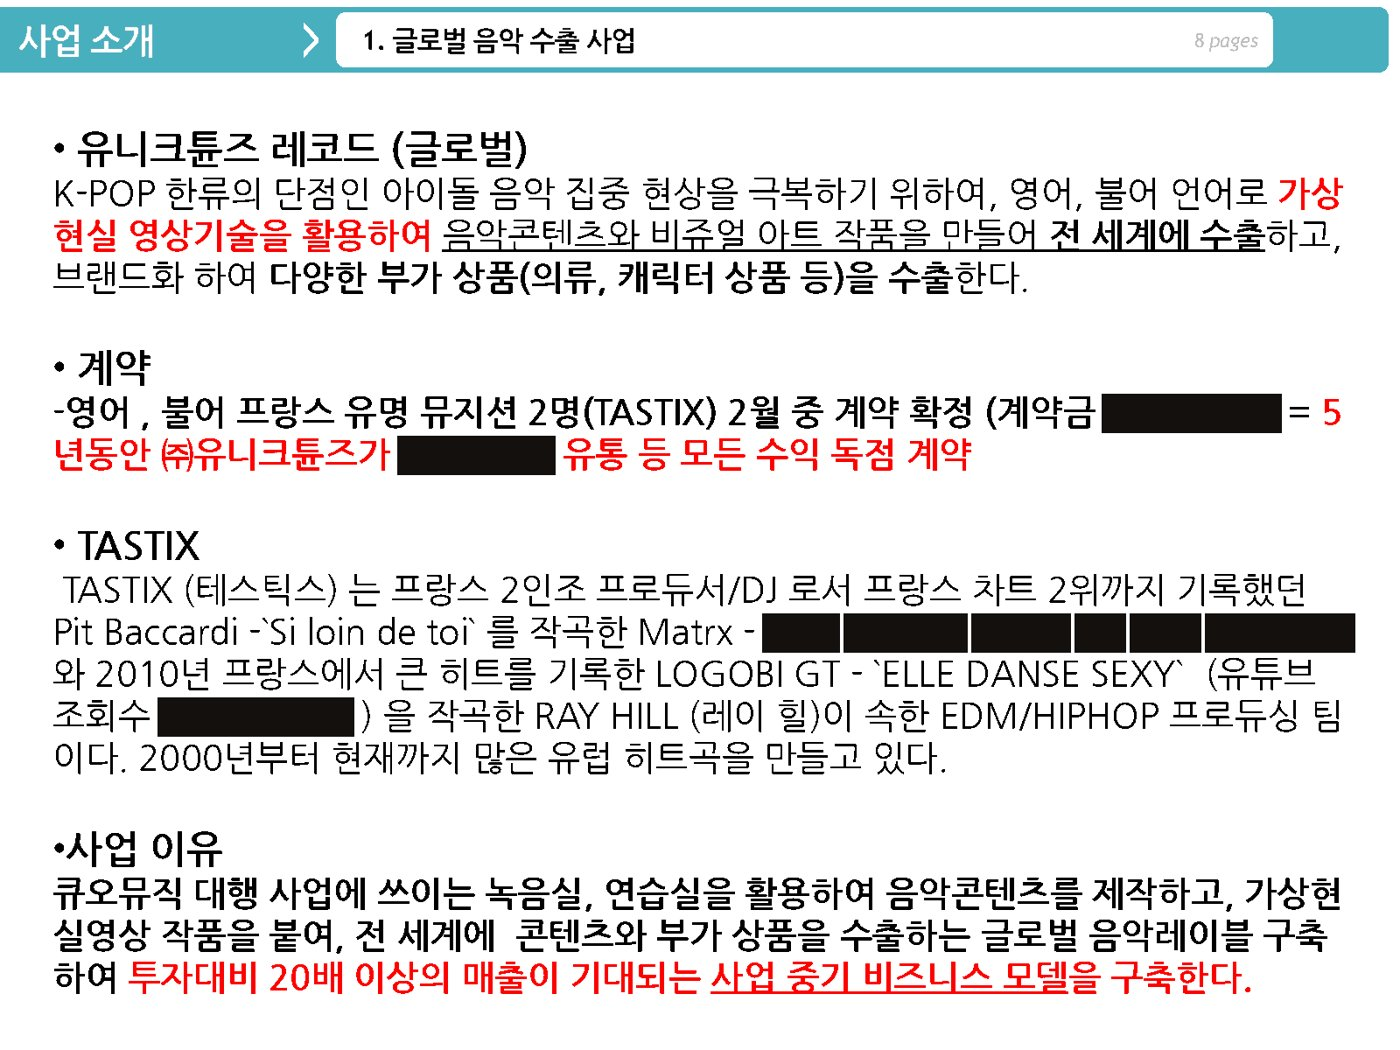
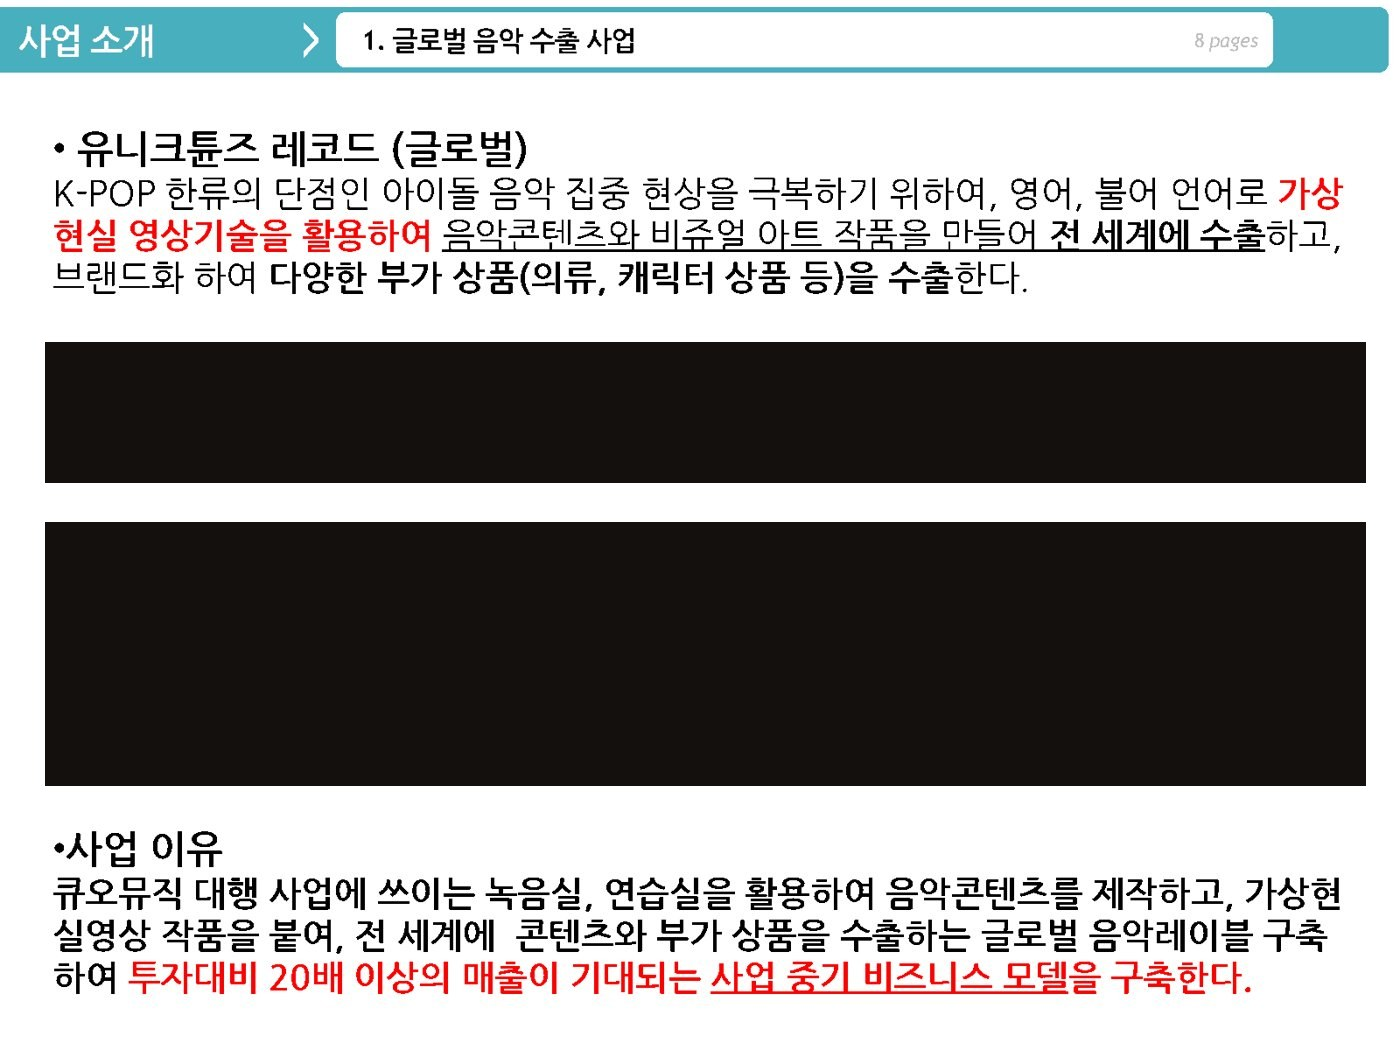
5관 KIMOXAVI + UK TOUR, 레이힐 한마디, 2편 TASTIX 내용 가림
Claude-Session: https://claude.ai/code/session_01LLcf55Dz63rV5HkvQ73PBu

diff --git a/index.html b/index.html
@@ -242,7 +242,7 @@ const CONFIG = {
       { id:"w05", year:"2017", title:"DAZE · Friday", desc:"데이즈 (DAZE) - Friday (Director's Cut) MV\n\n- Music Video Credit\nDirector : Maisie Duff at SPRY Productions\nD.O.P : Michael East at SPRY Productions\nLighting : Sophia Tang\nHair and makeup : Harleigh Slaughter\nActress : Amy Cotter\nVideo effect : Michael East at SPRY Productions, Brian East\nAdditional video edit: 이준의 @ 왓츠더웨더, 김민희\nSpecial Thanks in UK : Davide Cirillo at Toni & Guy Hammersmith, Sophia Tang, Kimoxavi, Freya bigg @ www.UnitedKpop.com", say:"", note:"따로 예산이 없어서 뮤비를 안찍으려다가, 영국의 신진 감독님이 제안을 주셔서 런던에 가서 저예산뮤직비디오를 찍었어요", youtube:"", video:"media/w05.mp4", image:"media/w05.jpg" },
       { id:"m2", wall:"bottom", type:"story", year:"2016", title:"음비맨의 회고록 2편", desc:"첫 자금 유치", say:"음비맨의 회고록 2탄이에요. 2016년, 유니크튠즈가 법인을 설립하고 첫 자금 유치를 했던 이야기예요", note:"음비맨의 회고록 2탄이에요. 2016년, 유니크튠즈가 법인을 설립하고 첫 자금 유치를 했던 이야기예요",
         image:"media/m2-01.jpg", images:["media/m2-01.jpg", "media/m2-02.jpg", "media/m2-03.jpg", "media/m2-04.jpg", "media/m2-05.jpg", "media/m2-06.jpg", "media/m2-07.jpg", "media/m2-08.jpg", "media/m2-09.jpg"],
-        text:"2016년 2월, 법인 자금을 받기 위해 사업소개서를 썼다. 제목은 \"가상현실 영상기술을 활용한 글로벌 음악수출 기업\"이었다.\n\n[이미지1]\n\n그때 나는 가상현실이 음악을 듣는 방식을 바꿀 거라고 믿었다. 초대형 페스티벌에서 내가 세계적인 DJ가 되어 무대에 서 보는 1인칭 음악, 뮤지션들이 나를 둘러싸고 연주하는 360도 음악.\n\n[이미지2]\n\n그런 음악과 영상을 영어, 불어로 만들어 전 세계에 수출하겠다는 계획이었다. 프랑스 프로듀서 팀 TASTIX와의 계약, 녹음실과 연습실을 활용한 콘텐츠 제작, 1인 음악창작자 커뮤니티 큐오넷의 유통·마케팅 대행까지. 소개서에는 그해 할 일이 빼곡하게 적혀 있었다.\n\n[이미지3]\n\n## 자금 계획\n\n자본금 계획은 세 갈래였다. 대표이사 개인 투자, 외주 홍보 매출, 그리고 중소기업청 청년전용 창업자금.\n\n[이미지4]\n\n지출 계획에는 VR 영상 장비와 제작비, 음악 녹음 장비, 뮤지션 계약금, 운영비와 인건비, 마케팅비가 들어갔다.\n\n[이미지5]\n\n월별 계획표에는 360도 가상현실 영상, 드론 항공촬영 영상, 기어VR용 음악영상의 출시 일정이 달마다 들어가 있었다.\n\n[이미지6]\n\n## 첫 법인 자금\n\n결과적으로 법인이 받은 자금은 융자로 총 6천만 원이었다. 회사 이름으로 받은 돈이었지만, 대표인 내가 개인 연대보증을 섰다.\n\n## 첫 녹음실\n\n[이미지7]\n\n그 돈으로 권리금 없는 녹음실을 인수했다. 직접 보수 공사를 해서 첫 법인 녹음실과 사무실을 꾸렸다.\n\n[이미지8]\n\n[이미지9]" }
+        text:"2016년 2월, 법인 자금을 받기 위해 사업소개서를 썼다. 제목은 \"가상현실 영상기술을 활용한 글로벌 음악수출 기업\"이었다.\n\n[이미지1]\n\n그때 나는 가상현실이 음악을 듣는 방식을 바꿀 거라고 믿었다. 초대형 페스티벌에서 내가 세계적인 DJ가 되어 무대에 서 보는 1인칭 음악, 뮤지션들이 나를 둘러싸고 연주하는 360도 음악.\n\n[이미지2]\n\n그런 음악과 영상을 영어, 불어로 만들어 전 세계에 수출하겠다는 계획이었다. 녹음실과 연습실을 활용한 콘텐츠 제작, 1인 음악창작자 커뮤니티 큐오넷의 유통·마케팅 대행까지. 소개서에는 그해 할 일이 빼곡하게 적혀 있었다.\n\n[이미지3]\n\n## 자금 계획\n\n자본금 계획은 세 갈래였다. 대표이사 개인 투자, 외주 홍보 매출, 그리고 중소기업청 청년전용 창업자금.\n\n[이미지4]\n\n지출 계획에는 VR 영상 장비와 제작비, 음악 녹음 장비, 뮤지션 계약금, 운영비와 인건비, 마케팅비가 들어갔다.\n\n[이미지5]\n\n월별 계획표에는 360도 가상현실 영상, 드론 항공촬영 영상, 기어VR용 음악영상의 출시 일정이 달마다 들어가 있었다.\n\n[이미지6]\n\n## 첫 법인 자금\n\n결과적으로 법인이 받은 자금은 융자로 총 6천만 원이었다. 회사 이름으로 받은 돈이었지만, 대표인 내가 개인 연대보증을 섰다.\n\n## 첫 녹음실\n\n[이미지7]\n\n그 돈으로 권리금 없는 녹음실을 인수했다. 직접 보수 공사를 해서 첫 법인 녹음실과 사무실을 꾸렸다.\n\n[이미지8]\n\n[이미지9]" }
     ]},
     { name: "3관 · 트리스 (TRISS)", floor: "#1f1c22",
       intro: "밴드 트리스(TRISS) 는 \"공상 과학\"에 영감을 받은\n신스팝 음악을 하는 밴드에요",
@@ -275,7 +275,14 @@ const CONFIG = {
       { id:"w06", year:"○○○○", title:"라이브", desc:"", say:"", note:"", youtube:"", video:"", image:"" },
       { id:"w07", year:"○○○○", title:"12주년 2LP", desc:"", say:"", note:"", youtube:"", video:"", image:"" }
     ]},
-    { name: "5관 · 마지막 앵콜", floor: "#2a1618", works: [
+    { name: "5관 · KIMOXAVI", floor: "#1b1a20",
+      intro: "키모사비는 얼터너티브 힙합 듀오에요",
+      works: [
+      { id:"k5", wall:"bottom", type:"story", year:"2019", title:"KIMOXAVI UK TOUR", desc:"2019년 9월, 맨체스터 · 리버풀 · 런던", say:"키모사비가 영국 맨체스터, 리버풀, 런던을 돌았던 2019년 UK 투어 이야기예요.", note:"키모사비가 영국 맨체스터, 리버풀, 런던을 돌았던 2019년 UK 투어 이야기예요.",
+        image:"media/k5-21.jpg", images:["media/k5-01.jpg", "media/k5-02.jpg", "media/k5-03.jpg", "media/k5-04.jpg", "media/k5-05.jpg", "media/k5-06.jpg", "media/k5-07.jpg", "media/k5-08.jpg", "media/k5-09.jpg", "media/k5-10.jpg", "media/k5-11.jpg", "media/k5-12.jpg", "media/k5-13.jpg", "media/k5-14.jpg", "media/k5-15.jpg", "media/k5-16.jpg", "media/k5-17.jpg", "media/k5-18.jpg", "media/k5-19.jpg", "media/k5-20.jpg", "media/k5-21.jpg", "media/k5-22.jpg", "media/k5-23.jpg", "media/k5-24.jpg"],
+        text:"2019년 9월, 키모사비는 영국 맨체스터, 리버풀, 런던을 도는 라이브 투어를 떠났어요. 그때 벅스에 남겼던 투어 이야기를 전시에 맞게 다시 엮었어요.\n\n## 키모사비는\n\n[이미지1]\n\n작곡, 프로듀싱, 보컬을 맡은 레이 힐(Ray Hill). 프랑스, 미국, 한국을 오가며 15년 넘게 프로듀서로 활동했고, 그가 프로듀싱에 참여한 〈ELECTRO-TEK〉 Vol.1·2는 유럽에서 500만 장 넘게 팔렸어요.\n\n[이미지2]\n\n작사와 랩을 맡은 파탈(Fatal Dopechild). 10년 넘게 언더그라운드 힙합씬에서 내공을 쌓았고, 솔로 정규앨범 〈Y.T.T.E.F〉를 그래픽 아트와 랩, 가사를 엮은 단독 랩 전시로 선보이기도 했어요.\n\n팀 이름은 인디언-아메리칸어로 '믿을 만한 친구(Faithful Friend)'라는 뜻의 'KIMO SABE'에서 따왔어요. 60년대 소울의 힙합적 재해석부터 현대무용과의 협업까지, 앨범마다 장르를 넘나드는 실험을 이어온 팀이에요.\n\n## 음비맨의 한마디\n\n키모사비의 리더 레이힐은 유니크튠즈의 첫 시작부터 함께한, 회사에 헌신적이었던 최고의 프로듀서이자 회사의 이사였다. 그의 노고에 늘 감사하고 미안하다.\n\n그가 없었으면 로디아, 트리스, 데이즈, 키모사비 모두 없었다.\n\n## 다시, 영국으로\n\n[이미지3]\n\n키모사비에게 영국은 처음이 아니었어요. 2017년, 인종차별 타파 캠페인 #FLASHLIGHTCHALLENGE의 메시지를 담은 'Hold Up' 뮤직비디오를 영국 현지 스태프들과 함께 찍었어요. 그 뒤로도 예술과 결합한 실험을 꾸준히 이어왔고, 벅스 커넥트와 한국콘텐츠진흥원의 후원으로 2019년 다시 영국 투어를 가게 됐어요.\n\n투어 일정\n9/9 맨체스터 Band on the Wall\n9/10 리버풀 Cavern Club\n9/11 리버풀 Hangar 34\n9/12 런던 ACE HOTEL Miranda\n9/15 런던 Notting Hill Art Club\n\n## DAY 1. 팝의 본고장, U.K로\n\n[이미지4]\n\n악기와 장비를 챙겨 키모사비와 DJ 녹시는 런던까지 12시간 비행을 시작했어요. 얼마 전 힙합 예능 〈사인히어〉에 출연해 좋은 평가를 받은 뒤라, 이 기회를 발판 삼아 더 잘해보자는 마음이었어요.\n\n[이미지5]\n\n런던 히드로 공항에 내리니 2년 전 기억이 떠올랐어요. 최소한의 스태프와 좁은 방에서 서로 의지하며 뮤직비디오를 찍던 그때. 영국 팬들에게 어서 좋은 무대를 보여주고 싶은 마음에 두근거렸어요. 다시 6시간을 달려 자정 무렵 맨체스터 숙소에 도착했어요.\n\n## DAY 2. 첫 공연, Band on the Wall\n\n[이미지6]\n\n첫 공연장은 맨체스터의 'Band on the Wall'. 1862년 양조장으로 지어져, 1930년대부터 맨체스터를 대표하는 음악 클럽으로 자리 잡은 곳이에요.\n\n[이미지7]\n\n공연 전에는 맨체스터 라디오 FM 106.6과 인터뷰를 했어요. 인터뷰가 끝나자 긴장이 밀려왔어요. '월요일인데 텅 빈 공연장이면 어쩌지?'\n\n[이미지8]\n\n걱정과 달리 많은 분들이 찾아와 줬어요. 처음 듣는 노래일 텐데도 다 같이 춤추며 호응해 준 덕분에 첫 공연을 무사히 마쳤어요.\n\n[이미지9]\n\n공연이 끝나고 공연장 앞에서 팬들과 이야기를 나누고 사진을 찍었어요.\n\n## DAY 3. 비틀스의 무대, Cavern Club\n\n[이미지10]\n\n리버풀의 'Cavern Club'. 1960년 비틀스의 역사가 시작된 곳이자, 이후에도 아델, 트래비스, 악틱 몽키즈 같은 뮤지션들을 배출해 온 영국 음악의 중심 같은 곳이에요. 비틀스 커버 공연이 한창인 가운데, 대기실 벽에 걸린 수많은 전설들의 사진을 보며 기대가 더 커졌어요.\n\n[이미지11]\n\n좌석이 있는 공연장이라 신나는 곡이 괜찮을까 걱정했지만, 무대가 시작되자 관객들이 저마다의 방식으로 즐기며 호응해 줬어요. 뜻깊은 무대였어요.\n\n## DAY 4. K-POP & K-HIPHOP 파티, Hangar 34\n\n[이미지12]\n\n세 번째 공연은 리버풀의 대형 공연장 'Hangar 34'에서 현지 K-POP 팬들과 함께했어요. 관람만 하는 공연이 아니라, 키모사비와 녹시, 팬들이 하나가 되어 춤추고 즐기는 무대였어요.\n\n[이미지13]\n\n한국어 가사를 따라 부르는 관객들을 보며 정말 뿌듯했어요. 파탈은 사흘 연속 공연에 목이 쉬어갔지만, 맨체스터 공연을 봤던 팬들이 2시간 거리의 리버풀까지 찾아와 줘서 마지막까지 열정을 불태웠어요.\n\n[이미지14]\n\n[이미지15]\n\n공연이 끝나고 녹시의 K-POP, K-HIPHOP 디제잉 파티가 이어졌어요. K-HIPHOP까지 알고 따라 부르는 모습에 모두가 놀랐어요. 고작 일주일 전에 나온 K-POP 신곡을 따라 부르며 춤추는 모습은 지금 떠올려도 소름 돋는 장면이에요.\n\n## DAY 5. 런던의 '홍대', 쇼디치\n\n[이미지16]\n\n리버풀에서 런던으로. 런던의 '홍대'라 불리는 쇼디치의 'ACE HOTEL Miranda'에서 공연했어요. 벽마다 그래피티가 가득하고, 개성 넘치는 사람들과 클럽, 펍이 모인 동네예요.\n\n[이미지17]\n\n투어 전, 런던 뮤지션 칼 쿨라(Karl Kula), 리나 런던(Linah London)과 함께 'HAVANA' 리믹스를 발매했어요.\n\n[이미지18]\n\n런던 무대에서는 리믹스와 오리지널 버전을 모두 부르며 현지 뮤지션들과 호흡을 맞췄어요.\n\n## DAY 6. 인터뷰와 잼 세션\n\n[이미지19]\n\n나흘 연속 공연을 마친 다음 날, 런던 힙합 미디어 'Keakie Radio'와 인터뷰를 하고, 런던 뮤지션들과 스튜디오에서 즉흥 잼 세션을 가졌어요. 레이 힐이 자신의 음악을 틀고, 파탈과 현지 뮤지션들이 그 위에서 즉흥 녹음을 했어요.\n\n## DAY 7. 마지막 공연, Notting Hill Art Club\n\n[이미지20]\n\n마지막 공연장 'Notting Hill Art Club'. 그동안의 강행군으로 파탈의 목 상태가 많이 좋지 않았고, 녹시도 감기 기운이 있었어요. 리허설은 간단히 끝냈어요.\n\n클럽 안이 꽉 찰 만큼 사람들이 모였어요. 먼저 오른 K-POP 댄스팀 공연으로 이미 열광의 도가니였고, 랜덤 플레이 댄스까지 이어지며 마치 영화 〈스텝업〉을 눈앞에서 보는 것 같았어요.\n\n[이미지21]\n\n그 분위기를 이어 무대에 올랐어요. 공연장이 좁게 느껴질 만큼 뜨거웠고, 'HAVANA'를 떼창하는 관객들을 보며 울컥할 만큼 기뻤어요.\n\n[이미지22]\n\n공연 후 녹시의 디제잉과 애프터파티가 이어졌어요. 그룹마다 댄스 배틀을 벌이고, 키모사비도 내려와 함께 손뼉 치며 즐겼어요. 투어 공연이 아니라 함께 호흡했다는 느낌이 강렬하게 남았어요.\n\n## DAY 8. Come Back Home\n\n[이미지23]\n\n조마조마했던 순간, 가슴 벅찬 순간, 눈물 날 뻔한 순간들을 안고 한국으로 돌아왔어요.\n\n## 그리고, MUSIC WEEK 차트 22위\n\n[이미지24]\n\n영국 공연의 감동이 가시기도 전에 소식이 날아왔어요. 'HAVANA'가 영국 음악 잡지 'Music Week'가 발표하는 Club Commercial Pop 차트 22위에 올랐어요. 한국 힙합 뮤지션으로는 처음이고, 한국 뮤지션 전체로 넓혀도 YB(윤도현 밴드) 이후 처음인 기록이에요.\n\n짧지만 굵었던 9월의 여정이 빛을 발한 순간이었어요." }
+    ]},
+    { name: "6관 · 마지막 앵콜", floor: "#2a1618", works: [
       { id:"w08", year:"○○○○", title:"문을 닫으며", desc:"", say:"", note:"", youtube:"", video:"", image:"" },
       { id:"letter", type:"letter", title:"마지막 인사" }
     ]}
